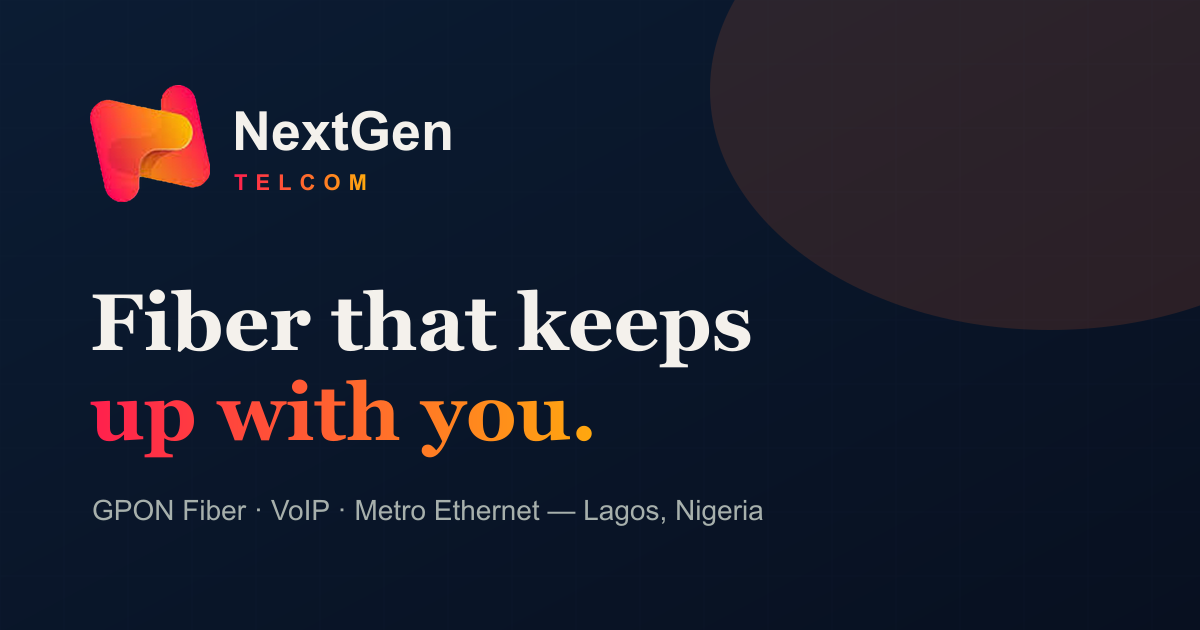
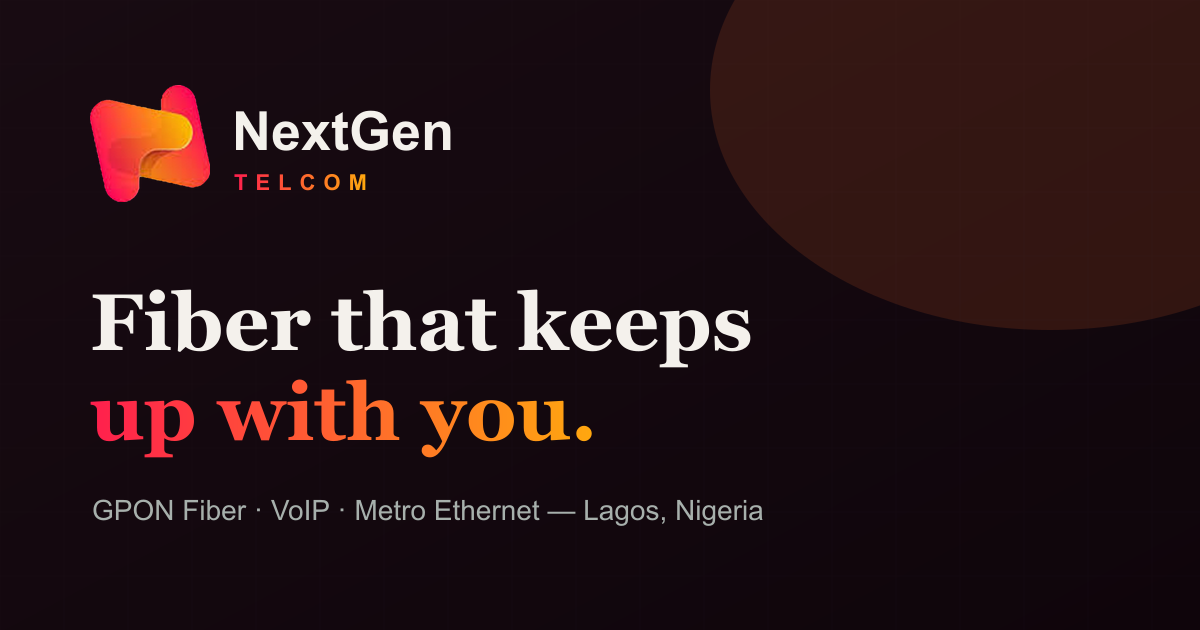
Design maturity pass: plum dark restored, gradient text retired
- Dark theme reverted to plum-black night market (navy removed everywhere:
  tokens, preloader, manifest, PWA icon plates, OG image, hero scrims)
- Light theme keeps the cool-paper look
- .grad-text deleted; all accents now solid brand orange (hero text-flow
  accent word is the single surviving gradient moment)
- Eyebrow orange dot removed (AI-tell cleanup)
- CtaBanner follows the dark void band via scoped data-theme

diff --git a/app/page.tsx b/app/page.tsx
@@ -16,7 +16,7 @@ export default function Home() {
           The gradient/blob backdrop below is the DESIGNED hero — the video
           fades in over it when ready. Slow phone, dead JS, reduced motion:
           the hero still looks intentional, never broken. */}
-      <section className="relative isolate flex min-h-[100svh] items-center overflow-hidden bg-[#081020] md:min-h-[92vh]">
+      <section className="relative isolate flex min-h-[100svh] items-center overflow-hidden bg-[#140710] md:min-h-[92vh]">
         {/* designed fallback backdrop */}
         <div aria-hidden="true" className="absolute inset-0 -z-30">
           <div className="blob drift -left-24 -top-24 h-[480px] w-[480px]" style={{ "--blob-c": "rgba(255,31,77,0.35)" } as React.CSSProperties} />
@@ -31,7 +31,7 @@ export default function Home() {
           className="absolute inset-0 -z-20 h-full w-full object-cover"
         />
         {/* left scrim for copy legibility over the bright clip */}
-        <div aria-hidden="true" className="absolute inset-0 -z-10 bg-[linear-gradient(100deg,rgba(6,12,24,0.85)_10%,rgba(6,12,24,0.45)_55%,transparent_85%)]" />
+        <div aria-hidden="true" className="absolute inset-0 -z-10 bg-[linear-gradient(100deg,rgba(12,4,9,0.85)_10%,rgba(12,4,9,0.45)_55%,transparent_85%)]" />
         <div aria-hidden="true" className="grain absolute inset-0 -z-10" />
 
         <Container className="relative pb-24 pt-32 md:pb-28 md:pt-36">
@@ -80,7 +80,7 @@ export default function Home() {
             eyebrow="Fiber plans"
             title={
               <>
-                Unlimited. <span className="grad-text">Prepaid.</span>
+                Unlimited. <span className="text-[var(--color-brand-orange)]">Prepaid.</span>
                 <br />
                 No contracts.
               </>
@@ -110,7 +110,7 @@ export default function Home() {
             eyebrow="Coverage"
             title={
               <>
-                Already lit in <span className="grad-text">your estate?</span>
+                Already lit in <span className="text-[var(--color-brand-orange)]">your estate?</span>
               </>
             }
             lede="We build estate by estate across Lekki, Ikate, Ilasan, Orchid and Ajah. Pick yours to see live plans and the exact installation cost."
@@ -124,7 +124,7 @@ export default function Home() {
             <div className="flex flex-wrap items-center justify-between gap-6">
               <div className="max-w-xl">
                 <h3 className="display text-2xl font-extrabold md:text-3xl">
-                  Want NextGen in <span className="grad-text">your estate?</span>
+                  Want NextGen in <span className="text-[var(--color-brand-orange)]">your estate?</span>
                 </h3>
                 <p className="mt-3 text-sm leading-relaxed text-[var(--color-fg-muted)] md:text-base">
                   Estate manager, resident committee, or a business that needs serious fiber — tell
@@ -151,7 +151,7 @@ export default function Home() {
               <>
                 One network.
                 <br />
-                <span className="grad-text">Three superpowers.</span>
+                <span className="text-[var(--color-brand-orange)]">Three superpowers.</span>
               </>
             }
             lede="Home fiber, business voice, and carrier-grade transport — all running on infrastructure we own and operate ourselves."

diff --git a/app/globals.css b/app/globals.css
@@ -18,7 +18,6 @@
   --color-brand-orange: #ff6b2c;
   --color-brand-amber: #ffa70f;
   --color-brand: #ff5a2c;
-  --color-brand-navy: #0b1c33;
   --font-display: var(--font-archivo), "Arial", system-ui, sans-serif;
   --font-sans: var(--font-inter), "Segoe UI", system-ui, sans-serif;
   --radius: 20px;
@@ -46,16 +45,16 @@
 }
 
 [data-theme="dark"] {
-  /* DARK — deep ink navy, quiet and infrastructural */
-  --color-ink: #0a1220;
-  --color-ink-glass: rgba(10, 18, 32, 0.9);
-  --color-void: #050b16;
-  --color-surface: #101c2f;
-  --color-surface-2: #16253c;
-  --color-hairline: #22344e;
-  --color-fg: #edf2f9;
-  --color-fg-muted: #a6b4c8;
-  --color-fg-faint: #6d7d94;
+  /* DARK — plum-black night market (user-preferred over navy) */
+  --color-ink: #180b12;
+  --color-ink-glass: rgba(24, 11, 18, 0.9);
+  --color-void: #0f050b;
+  --color-surface: #251320;
+  --color-surface-2: #2f1a29;
+  --color-hairline: #40263a;
+  --color-fg: #fff3ea;
+  --color-fg-muted: #c9b0ac;
+  --color-fg-faint: #91797a;
   --color-success: #3ecf8e;
   --shadow-pop: 0 24px 56px -20px rgba(0, 0, 0, 0.5);
   color-scheme: dark;
@@ -101,14 +100,6 @@ a, button, [role="button"], select, summary, label {
   letter-spacing: 0.22em;
   text-transform: uppercase;
   color: var(--color-fg-faint);
-}
-/* Sunset gradient text (headline accent words, prices). */
-.grad-text {
-  background-image: var(--grad-sunset);
-  -webkit-background-clip: text;
-  background-clip: text;
-  color: transparent;
-  -webkit-text-fill-color: transparent;
 }
 /* Giant ghost word behind sections — outline only, purely decorative. */
 .ghost {
@@ -296,7 +287,7 @@ a, button, [role="button"], select, summary, label {
   --wash-warm: rgba(11, 28, 51, 0.08);
 }
 [data-theme="dark"] {
-  --wash-base: #050b16;
+  --wash-base: #0f050b;
   --wash-hot: rgba(255, 107, 44, 0.07);
   --wash-warm: rgba(255, 31, 77, 0.04);
 }
@@ -339,7 +330,7 @@ html[data-boot] .preloader {
   justify-content: center;
   flex-direction: column;
   gap: 1.4rem;
-  background: #081020;
+  background: #14060e;
   animation: preload-lift 0.75s var(--ease-in-out) 1.7s forwards;
 }
 html[data-boot] .preloader::after {
@@ -350,7 +341,7 @@ html[data-boot] .preloader::after {
   left: 0;
   right: 0;
   height: 12vh;
-  background: #081020;
+  background: #14060e;
   border-radius: 0 0 50% 50% / 0 0 100% 100%;
 }
 @keyframes preload-lift {

diff --git a/app/connectivity/page.tsx b/app/connectivity/page.tsx
@@ -48,7 +48,7 @@ export default function ConnectivityPage() {
             eyebrow="Speed tiers"
             title={
               <>
-                From starter to <span className="grad-text">STM-16.</span>
+                From starter to <span className="text-[var(--color-brand-orange)]">STM-16.</span>
               </>
             }
             lede="One network, every scale — the same fiber that feeds a studio apartment can feed a data center."
@@ -66,7 +66,7 @@ export default function ConnectivityPage() {
                 >
                   <summary className="flex cursor-pointer list-none flex-wrap items-center justify-between gap-4 p-6 md:p-7 [&::-webkit-details-marker]:hidden">
                     <div className="flex items-center gap-5">
-                      <span aria-hidden="true" className="display grad-text w-14 shrink-0 text-3xl font-extrabold leading-none">
+                      <span aria-hidden="true" className="display text-[var(--color-brand-orange)] w-14 shrink-0 text-3xl font-extrabold leading-none">
                         0{i + 1}
                       </span>
                       <div>
@@ -153,7 +153,7 @@ export default function ConnectivityPage() {
               eyebrow="Why it’s different"
               title={
                 <>
-                  Glass to your door, <span className="grad-text">not copper.</span>
+                  Glass to your door, <span className="text-[var(--color-brand-orange)]">not copper.</span>
                 </>
               }
             />

diff --git a/app/enterprise/page.tsx b/app/enterprise/page.tsx
@@ -62,7 +62,7 @@ export default function EnterprisePage() {
             eyebrow="What we build"
             title={
               <>
-                Networks with a <span className="grad-text">pulse.</span>
+                Networks with a <span className="text-[var(--color-brand-orange)]">pulse.</span>
               </>
             }
             lede="For multi-site enterprise, banks and fintech, government, ISPs and carriers."
@@ -74,7 +74,7 @@ export default function EnterprisePage() {
                 className="sr-pop lift rounded-[var(--radius)] border border-[var(--color-hairline)] bg-[var(--color-surface)] p-7 md:p-8"
                 style={{ animationDelay: `${i * 0.06}s` }}
               >
-                <span aria-hidden="true" className="display grad-text text-3xl font-extrabold">0{i + 1}</span>
+                <span aria-hidden="true" className="display text-[var(--color-brand-orange)] text-3xl font-extrabold">0{i + 1}</span>
                 <h3 className="display mt-4 text-xl font-bold">{o.t}</h3>
                 <p className="mt-3 text-sm leading-relaxed text-[var(--color-fg-muted)]">{o.d}</p>
               </li>

diff --git a/app/voice/page.tsx b/app/voice/page.tsx
@@ -62,7 +62,7 @@ export default function VoicePage() {
             eyebrow="Why fiber voice"
             title={
               <>
-                Your number, on <span className="grad-text">01-640.</span>
+                Your number, on <span className="text-[var(--color-brand-orange)]">01-640.</span>
               </>
             }
             lede="Voice built into the network itself — not an app fighting your bandwidth."
@@ -74,7 +74,7 @@ export default function VoicePage() {
                 className="sr-pop lift rounded-[var(--radius)] border border-[var(--color-hairline)] bg-[var(--color-surface)] p-7 md:p-8"
                 style={{ animationDelay: `${i * 0.06}s` }}
               >
-                <span aria-hidden="true" className="display grad-text text-3xl font-extrabold">0{i + 1}</span>
+                <span aria-hidden="true" className="display text-[var(--color-brand-orange)] text-3xl font-extrabold">0{i + 1}</span>
                 <h3 className="display mt-4 text-xl font-bold">{f.t}</h3>
                 <p className="mt-3 text-sm leading-relaxed text-[var(--color-fg-muted)]">{f.d}</p>
               </li>

diff --git a/components/sections/StatsBand.tsx b/components/sections/StatsBand.tsx
@@ -13,7 +13,7 @@ export function StatsBand() {
         <div className="sr">
           <Eyebrow>Why NextGen</Eyebrow>
           <h2 className="display text-4xl font-extrabold sm:text-5xl md:text-6xl">
-            Built like a <span className="grad-text">carrier.</span>
+            Built like a <span className="text-[var(--color-brand-orange)]">carrier.</span>
             <br />
             Priced like a neighbour.
           </h2>
@@ -32,7 +32,7 @@ export function StatsBand() {
                 <dt className="order-2 text-[0.7rem] uppercase tracking-wider text-[var(--color-fg-faint)] sm:mt-1.5">
                   {s.label}
                 </dt>
-                <dd data-count="" className="display grad-text text-3xl font-extrabold sm:text-4xl">{s.value}</dd>
+                <dd data-count="" className="display text-[var(--color-brand-orange)] text-3xl font-extrabold sm:text-4xl">{s.value}</dd>
               </div>
             ))}
           </dl>

diff --git a/components/sections/ServicesGrid.tsx b/components/sections/ServicesGrid.tsx
@@ -19,7 +19,7 @@ export function ServicesGrid() {
             <h3 className="display relative mt-3 text-2xl font-bold">{s.name}</h3>
             <p className="relative mt-4 flex-1 text-sm leading-relaxed text-[var(--color-fg-muted)]">{s.short}</p>
             <p className="relative mt-6 border-t border-[var(--color-hairline)] pt-5">
-              <span className="display grad-text text-3xl font-extrabold">{s.stat.value}</span>
+              <span className="display text-[var(--color-brand-orange)] text-3xl font-extrabold">{s.stat.value}</span>
               <span className="ml-2 text-xs uppercase tracking-wider text-[var(--color-fg-faint)]">{s.stat.label}</span>
             </p>
             <span className="relative mt-6 inline-flex items-center gap-2 text-sm font-bold text-[var(--color-brand-orange)]">

diff --git a/app/layout.tsx b/app/layout.tsx
@@ -60,7 +60,7 @@ export const metadata: Metadata = {
 export const viewport: Viewport = {
   themeColor: [
     { media: "(prefers-color-scheme: light)", color: "#f6f8fb" },
-    { media: "(prefers-color-scheme: dark)", color: "#0a1220" },
+    { media: "(prefers-color-scheme: dark)", color: "#180b12" },
   ],
   colorScheme: "light dark",
 };
@@ -71,7 +71,7 @@ const enhance = `(function(){
   function syncMeta(){
     var d=document.documentElement.getAttribute('data-theme')==='dark';
     var m=document.querySelectorAll('meta[name="theme-color"]');
-    for(var k=0;k<m.length;k++){m[k].setAttribute('content',d?'#0a1220':'#f6f8fb');}
+    for(var k=0;k<m.length;k++){m[k].setAttribute('content',d?'#180b12':'#f6f8fb');}
   }
   syncMeta();
   var btns=document.querySelectorAll('.theme-toggle');

diff --git a/components/sections/PageHero.tsx b/components/sections/PageHero.tsx
@@ -48,7 +48,7 @@ export function PageHero({
       </picture>
       {video && <BlobVideo src={video} className="absolute inset-0 -z-20 h-full w-full object-cover" />}
       {/* Scrim so type always reads. */}
-      <div aria-hidden="true" className="absolute inset-0 -z-10 bg-[linear-gradient(105deg,rgba(6,12,24,0.88)_20%,rgba(6,12,24,0.55)_60%,rgba(255,60,44,0.15))]" />
+      <div aria-hidden="true" className="absolute inset-0 -z-10 bg-[linear-gradient(105deg,rgba(10,4,8,0.88)_20%,rgba(10,4,8,0.55)_60%,rgba(255,60,44,0.15))]" />
 
       <Container className="relative w-full pb-12 pt-10 md:pb-14">
         <span aria-hidden="true" className="ghost absolute -bottom-6 right-0 text-[20vw] opacity-25 md:text-[11rem]" style={{ WebkitTextStroke: "1.5px rgba(255,255,255,0.35)" }}>

diff --git a/components/sections/PlansGrid.tsx b/components/sections/PlansGrid.tsx
@@ -29,8 +29,8 @@ function PlanCard({ p, i }: { p: Plan; i: number }) {
       <p className="mt-5">
         {amt ? (
           <>
-            <span className="display grad-text align-top text-lg font-bold">₦</span>
-            <span className="display grad-text text-5xl font-extrabold tracking-tight">{amt}</span>
+            <span className="display text-[var(--color-brand-orange)] align-top text-lg font-bold">₦</span>
+            <span className="display text-[var(--color-brand-orange)] text-5xl font-extrabold tracking-tight">{amt}</span>
             <span className="ml-1 text-sm text-[var(--color-fg-faint)]">/{p.cycle}</span>
           </>
         ) : (

diff --git a/components/CoverageChecker.tsx b/components/CoverageChecker.tsx
@@ -31,8 +31,8 @@ function EstatePlanCard({ p }: { p: Plan }) {
       <p className="mt-3">
         {amt ? (
           <>
-            <span className="display grad-text align-top text-sm font-bold">₦</span>
-            <span className="display grad-text text-3xl font-extrabold tracking-tight">{amt}</span>
+            <span className="display text-[var(--color-brand-orange)] align-top text-sm font-bold">₦</span>
+            <span className="display text-[var(--color-brand-orange)] text-3xl font-extrabold tracking-tight">{amt}</span>
             <span className="ml-1 text-xs text-[var(--color-fg-faint)]">/{p.cycle}</span>
           </>
         ) : (

diff --git a/app/contact/page.tsx b/app/contact/page.tsx
@@ -45,7 +45,7 @@ export default function ContactPage() {
       <section className="relative overflow-hidden py-20 md:py-28">
         <Container className="grid gap-14 lg:grid-cols-[1fr_1.2fr]">
           <div>
-            <SectionHead eyebrow="Channels" title={<>Reach us <span className="grad-text">anywhere.</span></>} />
+            <SectionHead eyebrow="Channels" title={<>Reach us <span className="text-[var(--color-brand-orange)]">anywhere.</span></>} />
             <ul className="mt-10 grid gap-4">
               {channels.map((c, i) => (
                 <li key={c.t} className="sr" style={{ animationDelay: `${i * 0.05}s` }}>
